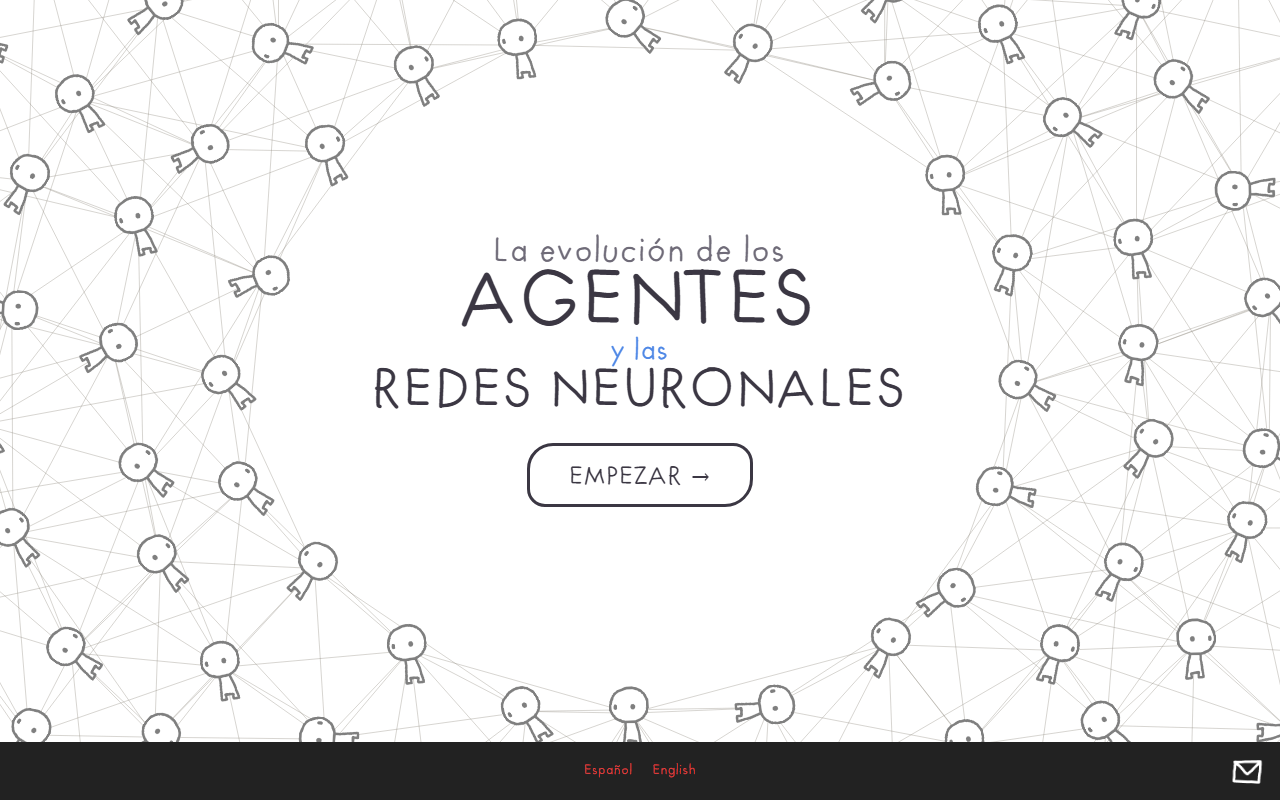
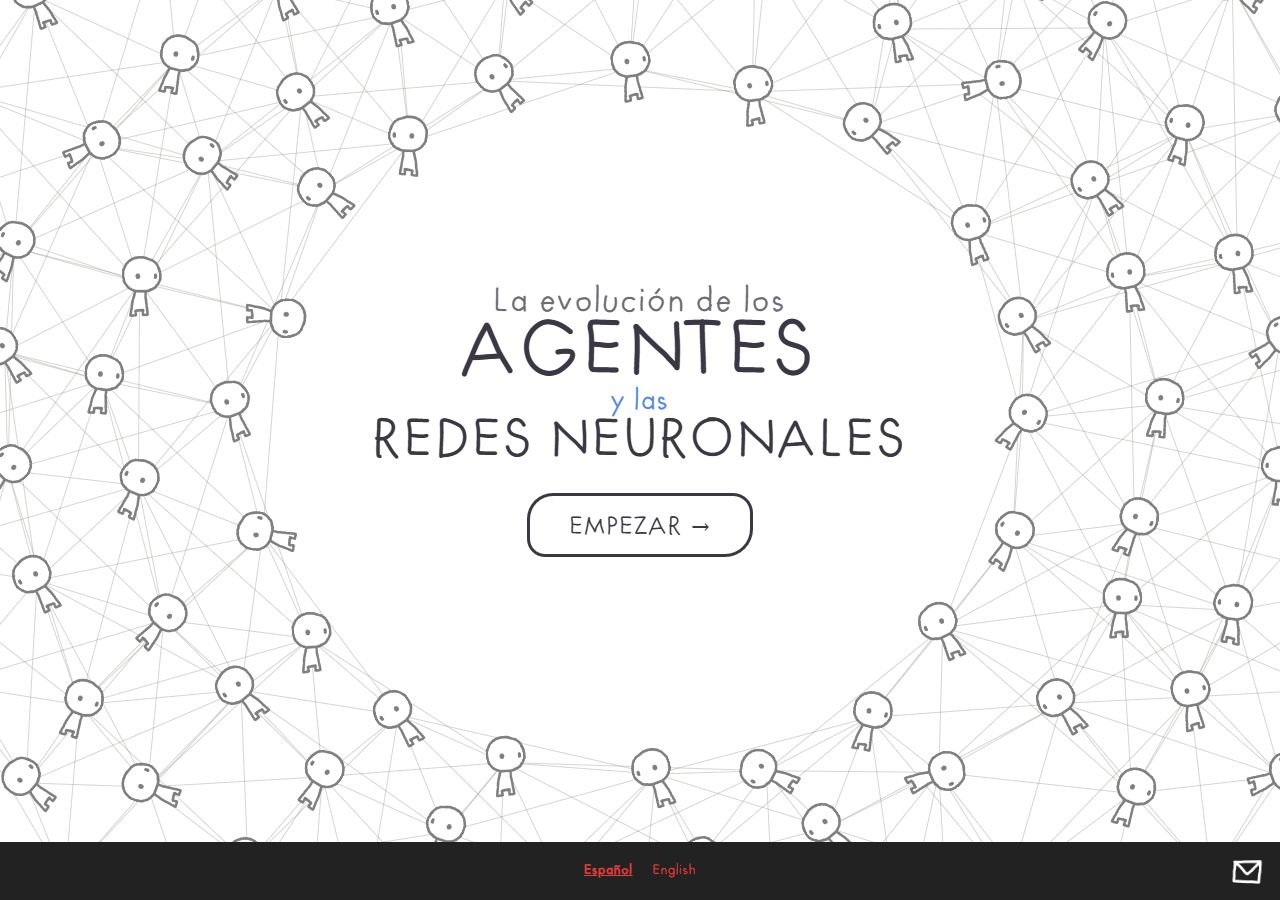
Mejora diseño móvil y actualiza capturas bilingües

diff --git a/index.html b/index.html
@@ -2,13 +2,13 @@
 <html lang="es">
   <head>
     <meta charset="UTF-8" />
-    <meta name="viewport" content="width=device-width, initial-scale=1.0" />
+    <meta name="viewport" content="width=device-width, initial-scale=1.0, viewport-fit=cover" />
     <meta
       name="description"
       content="La evolución de los agentes y las redes neuronales: una exploración con herramientas de Análisis Matemático 2."
     />
     <title>La evolución de los agentes y las redes neuronales</title>
-    <link rel="stylesheet" href="styles.css" />
+    <link rel="stylesheet" href="styles.css?v=20260917-2" />
     <script>
       window.MathJax = {
         tex: {
@@ -79,7 +79,7 @@
           <div class="intro-text">
 <p class="prose" data-i18n="intro_p00">Algo que puede ser útil para mejorar nuestro <span class="concept concept--red">discernimiento al utilizar herramientas de IA</span> es comprender cómo funciona la estadística que tienen por detrás.</p>
 
-<p class="prose" data-i18n="intro_p01">De esta manera podremos reconocer <span class="concept concept--context">cuándo una respuesta puede ser confiable</span>, cuándo conviene verificarla y cuáles son los límites de la herramienta.</p>
+<p class="prose" data-i18n="intro_p01">De esta manera podremos entender por qué debemos <span class="concept concept--context">mantener el escepticismo</span> frente a una respuesta y cómo podría hacerse que una IA entrenada por nosotros tenga menor margen de error.</p>
 
           <!-- VIDEO 1: AwesomeClip.mp4 (loop, sin audio, autoplay) -->
           <figure class="video-card">
@@ -825,6 +825,7 @@ Un bloque Transformer recibe los embeddings de los tokens y los transforma en nu
             equivale a una compuerta lógica AND. Eligiendo $w_1 = 2$, $w_2 = 2$ y
             $b = -3$:
           </p>
+          <div class="table-wrap" tabindex="0" role="region" aria-label="Tabla de verdad" data-i18n-aria-label="truthTableLabel">
           <table class="truth-table">
             <thead>
               <tr><th data-i18n="t107">$x_1$ (cómputo)</th><th data-i18n="t108">$x_2$ (razonamiento)</th><th data-i18n="t109">Éxito real $y$</th><th data-i18n="t110">Suma $z$</th><th data-i18n="t111">Salida</th></tr>
@@ -836,6 +837,7 @@ Un bloque Transformer recibe los embeddings de los tokens y los transforma en nu
               <tr><td>1</td><td>1</td><td class="ok">1</td><td>$2(1)+2(1)-3=+1$</td><td class="ok">1</td></tr>
             </tbody>
           </table>
+          </div>
           <p data-i18n="t112">
             La neurona solo arroja un valor positivo, y por ende salida $1$, cuando
             ambas entradas están activadas. Si visualizamos la tabla en una gráfica,
@@ -974,6 +976,7 @@ Un bloque Transformer recibe los embeddings de los tokens y los transforma en nu
             <li data-i18n="t131"><span class="sym">$x_1$</span> (naturaleza de la tarea): $1$ si es paralelizable, $0$ si es secuencial.</li>
             <li data-i18n="t132"><span class="sym">$x_2$</span> (infraestructura): $1$ si es multi-agente, $0$ si es un agente solo.</li>
           </ul>
+          <div class="table-wrap" tabindex="0" role="region" aria-label="Tabla de verdad" data-i18n-aria-label="truthTableLabel">
           <table class="truth-table">
             <thead>
               <tr><th>$x_1$</th><th>$x_2$</th><th data-i18n="t133">Éxito $y$</th><th data-i18n="t134">Escenario real</th></tr>
@@ -985,6 +988,7 @@ Un bloque Transformer recibe los embeddings de los tokens y los transforma en nu
               <tr><td>1</td><td>1</td><td class="ok">1</td><td data-i18n="t138">Paralelizable + multi-agente: coordinación perfecta.</td></tr>
             </tbody>
           </table>
+          </div>
 
           <figure class="gate-card" style="max-width: 320px; margin: 18px auto;">
             <h4 data-i18n="t139">Compuerta XOR</h4>
@@ -1141,15 +1145,16 @@ Un bloque Transformer recibe los embeddings de los tokens y los transforma en nu
                 playsinline
                 preload="auto"
               >
-                <source src="videos/sigmoide3d.mp4" type="video/mp4" />
+                <source src="videos/sigmoide3d.mp4?v=20260917-trimmed" type="video/mp4" />
               </video>
               <div class="video-card__missing" style="display: none;">
                 <span data-i18n="t015">Falta el video</span>
                 <code>videos/sigmoide3d.mp4</code>
               </div>
             </div>
-            <figcaption data-i18n="t163" class="video-card__caption">
-              La superficie sigmoide sobre el plano (x₁, x₂) y cómo curva la frontera de decisión.
+            <figcaption class="video-card__caption video-card__caption--credited">
+              <span data-i18n="t163">La superficie sigmoide sobre el plano (x₁, x₂) y cómo curva la frontera de decisión.</span>
+              <span data-i18n="sigmoidVideoCredit" class="video-card__credit">Créditos: Dot CSV — <strong>¿Qué es una Red Neuronal? Parte 2 : La Red</strong>.</span>
             </figcaption>
           </figure>
 
@@ -1394,7 +1399,7 @@ Un bloque Transformer recibe los embeddings de los tokens y los transforma en nu
           <p data-i18n="t205">
             Los hallazgos que motivaron cada página, con su paper y su fuente:
           </p>
-          <div class="table-wrap">
+          <div class="table-wrap" tabindex="0" role="region" aria-label="Referencias" data-i18n-aria-label="referencesTableLabel">
             <table class="truth-table papers-table">
               <thead>
                 <tr><th data-i18n="t206">Hallazgo</th><th data-i18n="t207">Paper</th><th data-i18n="t208">Fuente</th></tr>
@@ -1416,8 +1421,8 @@ Un bloque Transformer recibe los embeddings de los tokens y los transforma en nu
       </div>
     </section>
 
-    <script src="i18n.js"></script>
+    <script src="i18n.js?v=20260917-2"></script>
     <script src="papers.js"></script>
-    <script src="app.js"></script>
+    <script src="app.js?v=20260917"></script>
   </body>
 </html>

diff --git a/styles.css b/styles.css
@@ -382,6 +382,17 @@ button {
   text-align: center;
   margin-top: 8px;
 }
+.video-card__caption--credited {
+  margin: 0;
+  padding: 12px 16px;
+  background: var(--paper);
+  color: var(--ink-soft);
+}
+.video-card__credit {
+  display: block;
+  margin-top: 6px;
+  color: var(--ink);
+}
 
 /* ---------- Bloque resaltado / nota ---------- */
 
@@ -924,3 +935,81 @@ button {
 .intro-card--learn { border-color: #d58e47; background: #fff6ec; }
 .token-sequence { gap: 12px; }
 .token-sequence span { border: 1px solid #2860bf; border-bottom-width: 3px; }
+
+/* Responsive reading and touch interaction: never hide page-level overflow. */
+html { -webkit-text-size-adjust: 100%; text-size-adjust: 100%; }
+.page, .page__body, .page__nav, .doc-nav, .tool, .gate-card,
+.fig-row, .diagram, .intro-text, .intro-card, .token-example { min-width: 0; }
+.page__logo { min-width: 0; }
+.page__home, .lang-switch { flex-shrink: 0; }
+.page__bar { height: auto; min-height: 50px; gap: 10px; }
+.page__logo { line-height: 1.3; padding: 8px 0; }
+.doc-nav { width: 100%; }
+.table-wrap { max-width: 100%; scrollbar-width: thin; }
+.table-wrap .truth-table { margin: 12px 0; }
+.papers-table a, .doc p a { overflow-wrap: anywhere; }
+.eq, .math-block { min-width: 0; }
+.eq mjx-container[display="true"], .math-block mjx-container[display="true"] {
+  min-width: 100%;
+  width: max-content;
+}
+.splash { height: 100svh; min-height: 400px; }
+button, .splash__lang { touch-action: manipulation; }
+
+@media (max-width: 640px) {
+  .page, .page--doc { min-height: 100svh; }
+  .page__bar {
+    position: sticky;
+    top: 0;
+    display: grid;
+    grid-template-columns: minmax(0, 1fr) auto;
+    padding: 8px max(16px, env(safe-area-inset-right)) 8px max(16px, env(safe-area-inset-left));
+    gap: 4px 12px;
+  }
+  .page__logo { grid-column: 1 / -1; font-size: 0.95rem; padding: 0; }
+  .lang-switch { margin: 0; gap: 8px; justify-self: start; }
+  .lang-switch__btn { min-width: 44px; min-height: 44px; font-size: 0.85rem; }
+  .page__home { min-height: 44px; justify-self: end; white-space: nowrap; }
+  .page__body, .page--doc .page__body { padding: 24px 16px 30px; }
+  .intro-text .prose, .doc p { font-size: 1rem; line-height: 1.65; }
+  .doc-title { font-size: clamp(1.6rem, 6vw, 2rem); }
+  .intro-card, .token-example { padding: 14px; margin: 18px 0; }
+  .token-sequence { gap: 8px; margin: 16px 0; }
+  .token-sequence span { padding: 6px 8px; font-size: 0.85rem; }
+  .callout, .cite, .defs { padding: 12px 14px; }
+  .gate-grid { grid-template-columns: minmax(0, 1fr); }
+  .gate-card, .diagram { padding: 12px 10px; }
+  .fig-row { padding: 12px 8px; }
+  #scatter-cap1 text { font-size: 14px; }
+  .tool { padding: 14px 12px; }
+  .tool__controls { grid-template-columns: minmax(0, 1fr); gap: 12px; }
+  .tool__row input[type="range"] { min-height: 44px; margin: 0; }
+  .tool__foot .btn { width: 100%; }
+  .btn { min-height: 44px; }
+  .pager { padding: 8px 16px 18px; gap: 8px; }
+  .pager__btn { min-width: 44px; height: 44px; }
+  .page__nav, .doc-nav { padding: 8px 16px calc(24px + env(safe-area-inset-bottom)); gap: 10px; }
+  .splash__center { gap: 20px; padding: 20px 16px; }
+  .splash__title-md { font-size: clamp(1.35rem, 6vw, 2rem); }
+  .splash__play { min-height: 48px; padding: 12px 28px; }
+  .splash__footer {
+    height: auto;
+    min-height: 58px;
+    padding: 6px 60px calc(6px + env(safe-area-inset-bottom));
+  }
+  .splash__langs { gap: 4px; font-size: 14px; }
+  .splash__lang { display: inline-flex; align-items: center; min-height: 44px; padding: 4px 8px; }
+  .splash__email { width: 44px; height: 44px; right: max(12px, env(safe-area-inset-right)); }
+}
+
+@media (max-width: 480px) {
+  .page__nav, .doc-nav { flex-direction: column; }
+  .page__nav .btn, .doc-nav .btn { width: 100%; text-align: center; }
+}
+
+@media (max-height: 480px) and (max-width: 900px) {
+  .splash__center { gap: 14px; }
+  .splash__title-lg { font-size: 2rem; }
+  .splash__title-md { font-size: 1.4rem; }
+  .splash__title-sm { font-size: 1rem; }
+}

diff --git a/i18n.js b/i18n.js
@@ -23,7 +23,7 @@
   var EN = {
     /* Expanded introduction: preserve colors, panels and mathematical notation. */
     "intro_p00": "One useful way to improve our <span class=\"concept concept--red\">judgement when using AI tools</span> is to understand the statistics behind them.",
-    "intro_p01": "This helps us recognise <span class=\"concept concept--context\">when a response may be reliable</span>, when it should be checked, and what limitations the tool has.",
+    "intro_p01": "This way, we can understand why we should <span class=\"concept concept--context\">remain sceptical</span> of a response and how an AI trained by us could be made to have a smaller margin of error.",
     "intro_p02": "A <em>Large Language Model</em> (LLM) is a mathematical model that generates a text response through a <span class=\"concept concept--learn\">probability function</span>—which varies from one model to another—based on a text prompt. This function depends on millions of parameters adjusted during training. As an analogy, we can compare them with the millions of synaptic connections in our brains. We will now see why this comparison is useful.",
     "intro_p03": "An LLM calculates probabilities for the <span class=\"concept concept--text\">next token</span> it will write. Once that token has been selected and appended to the response, all the preceding text is sent back through the same function to calculate the next one.",
     "intro_p04": "<span class=\"concept concept--text\">Tokens</span> are <span class=\"concept concept--text\">character fragments</span> with an associated <span class=\"concept concept--text\">numerical ID</span>.",
@@ -260,6 +260,7 @@
     t160: 'The sigmoid in three dimensions',
     t161: 'To close, let us look at the sigmoid in three dimensions. Applied to the weighted sum $z = w_1 x_1 + w_2 x_2 + b$, it turns the tilted plane into a smooth surface shaped like a curved step: on one side it saturates near $0$ and on the other near $1$, with a continuous transition in between. That curvature is exactly what lets us separate the gates: instead of a straight, abrupt cut like the threshold’s, we get a <em>smooth, deformable boundary</em> which, chained across layers, can wrap around the crossed XOR points.',
     t163: 'The sigmoid surface over the (x₁, x₂) plane and how it curves the decision boundary.',
+    sigmoidVideoCredit: 'Credits: Dot CSV — <strong>¿Qué es una Red Neuronal? Parte 2 : La Red</strong>.',
     t164: 'With this the architecture is complete: neurons that compute weighted sums, organised in layers, with non-linear activations in between. But so far <em>we</em> have chosen the weights by hand, by looking at the picture. The real magic of machine learning is that the network finds them on its own. How? That is the subject of the next page.',
     t165: 'Page 9 of 11',
     t166: '&larr; The XOR paradox',
@@ -316,6 +317,8 @@
     docTitle: 'The evolution of agents and neural networks',
     docDesc: 'The evolution of agents and neural networks: an exploration using the tools of Calculus II.',
     chartXLabel: 'training compute',
+    truthTableLabel: 'Truth table: scroll horizontally to view all columns',
+    referencesTableLabel: 'References: scroll horizontally to view all columns',
     chartError: 'Error (MSE) = ',
     layerPrev: 'LAYER N−1',
     layerCurr: 'LAYER N',

diff --git a/app.js b/app.js
@@ -312,7 +312,38 @@
         draw();
       });
     }
+    // Draw at the available CSS width instead of shrinking a desktop bitmap.
+    // Hidden chapters are resized when they become visible.
+    function resizeCanvas() {
+      var width = canvas.parentElement.clientWidth;
+      if (!width) return;
+      CW = width;
+      CH = Math.max(270, Math.round(CW * 380 / 640));
+      var ratio = Math.min(window.devicePixelRatio || 1, 2);
+      canvas.width = Math.round(CW * ratio);
+      canvas.height = Math.round(CH * ratio);
+      ctx.setTransform(ratio, 0, 0, ratio, 0, 0);
+      ml = CW < 400 ? 44 : 56;
+      mr = CW < 400 ? 16 : 24;
+      x0 = ml;
+      x1 = CW - mr;
+      y0 = CH - mb;
+      draw();
+    }
     draw();
+    if (window.ResizeObserver) {
+      new ResizeObserver(resizeCanvas).observe(canvas.parentElement);
+    } else {
+      window.addEventListener('resize', resizeCanvas);
+      // Navigation can reveal a previously hidden chapter without a resize.
+      document.addEventListener('click', function (e) {
+        if (e.target.closest('[data-goto]')) resizeCanvas();
+      });
+    }
+    resizeCanvas();
+    if (document.fonts && document.fonts.ready) {
+      document.fonts.ready.then(resizeCanvas);
+    }
   }
 
   /* ---------- Compuertas: recorte de semiplano (Sutherland-Hodgman) ---------- */
@@ -825,5 +856,14 @@
     mouse.x = -99999;
     mouse.y = -99999;
   });
-  window.addEventListener('resize', build);
+  if (window.ResizeObserver) {
+    new ResizeObserver(function () {
+      if (canvas.clientWidth && canvas.clientHeight) build();
+    }).observe(canvas);
+  } else {
+    window.addEventListener('resize', build);
+    document.addEventListener('click', function (ev) {
+      if (ev.target.closest('[data-goto="splash"]')) build();
+    });
+  }
 })();

diff --git a/README.md b/README.md
@@ -6,7 +6,7 @@ A **Probability & Statistics** project: an interactive web page that explains wh
 
 *🇦🇷 [Leer este README en español](README.es.md) · the site itself is bilingual (EN / ES switch in the top bar).*
 
-![Site cover](assets/readme/portada.png)
+![Site cover](assets/readme/portada-en.png)
 
 ---
 
@@ -18,19 +18,22 @@ We wanted to show that journey without black boxes. Every formula on the site ca
 
 ## How we approached it
 
-- **An expanded introduction.** A learning analogy leads into language models, token IDs, embeddings, Transformer blocks and learned parameters. The introduction uses LaTeX formulas, colored text panels and a visual token-to-vector example.
+- **An expanded introduction.** Statistics and critical judgement lead into language models, token IDs, embeddings, Transformer blocks and learned parameters. The introduction uses LaTeX formulas, colored text panels and a visual token-to-vector example.
 - **A story in 11 pages, from simple to complex.** The site reads like a notebook: the introduction and an LLM's probability function (pages 1 and 2) → a line fitted to real data (page 3) → the error as a function to minimise (page 4) → more dimensions and least squares (page 5) → the perceptron (page 6) → AND/OR gates (page 7) → the XOR limit (page 8) → layers and activation functions (page 9) → backpropagation and gradient descent (page 10) → conclusion and references (page 11).
 - **Real papers as the through-line.** Each mathematical concept enters when a real finding demands it: linear regression shows up to model OpenAI's Scaling Laws, and XOR shows up because the DeepMind + MIT multi-agent finding (multi-agents help on parallelisable tasks and hurt on sequential ones) has exactly that shape.
 - **Interactive where it adds value, static where it does not.** Page 4 has a tool to drag the slope and bias of the line and watch the mean squared error change live. The rest are SVG charts drawn in code, with no libraries.
 - **Language selection.** The introduction, navigation and nine chapters support English and Spanish, with English selected by default. Color highlights, text panels and LaTeX formulas are preserved when switching languages. Spanish example tokens are retained to keep their IDs and vectors consistent. The language choice is remembered across visits.
 - **Handmade aesthetic.** Handwritten typography, paper colours and an animated cover (a homage to Nicky Case's *The Evolution of Trust*): it should feel like a notebook, not a corporate deck.
 - **No dependencies, no build step.** Vanilla HTML + CSS + JS; only MathJax from a CDN for the formulas. Deploying means copying static files.
+- **Mobile-friendly reading.** The header adapts to narrow screens, navigation and sliders have larger touch targets, the regression chart is redrawn at the available width, and wide tables and equations scroll within their own panels.
 
 ## The walkthrough, in screenshots
 
-**Introduction — learning and language models.** The opening analogy and video introduce the model, with color highlights for key concepts.
+All screenshots in this README use English. The [Spanish README](README.es.md) has its own Spanish screenshots; the example tokens intentionally remain in Spanish in both versions.
 
-![Introduction: learning analogy and video](assets/readme/introduccion-en.png)
+**Introduction — statistics and language models.** The opening text and video introduce the model and the importance of remaining sceptical, with color highlights for key concepts.
+
+![Introduction: statistics, critical judgement and video](assets/readme/introduccion-en.png)
 
 **Introduction — from tokens to the input vector.** Separate token boxes correspond to the IDs in the LaTeX vector, inside a dedicated text panel.
 
@@ -38,19 +41,23 @@ We wanted to show that journey without black boxes. Every formula on the site ca
 
 **Page 3 — the real data and the first line.** The test loss of OpenAI's models falls with compute following a power law; on a log-log scale it is almost a straight line, and that line is our first model:
 
-![Page 3: scaling laws](assets/readme/scaling-laws.png)
+![Page 3: scaling laws](assets/readme/scaling-laws-en.png)
 
 **Page 4 — the error as a function.** The interactive tool: you move the slope and the bias, and the mean squared error tells you how good your line is:
 
-![Page 4: regression tool](assets/readme/herramienta-mse.png)
+![Page 4: regression tool](assets/readme/herramienta-mse-en.png)
 
 **Page 8 — the limit.** The multi-agent finding has the shape of an XOR and no straight line can separate that pattern: the geometric reason why networks are needed:
 
-![Page 8: the XOR paradox](assets/readme/xor.png)
+![Page 8: the XOR paradox](assets/readme/xor-en.png)
 
 **Page 11 — the conclusion.** A recap of everything used, stage by stage, plus the references:
 
-![Page 11: conclusion](assets/readme/conclusion.png)
+![Page 11: conclusion](assets/readme/conclusion-en.png)
+
+**Mobile — interactive regression.** The chart keeps readable labels and the controls stack vertically on a phone:
+
+![Mobile layout: regression chart and touch controls](assets/readme/mobile-en.png)
 
 ## Running it locally
 

diff --git a/README.es.md b/README.es.md
@@ -18,19 +18,22 @@ Queríamos mostrar ese recorrido sin cajas negras. Cada fórmula que aparece en 
 
 ## Cómo lo pensamos
 
-- **Una introducción ampliada.** Una analogía sobre el aprendizaje presenta los modelos de lenguaje, los IDs de tokens, los embeddings, los bloques Transformer y los parámetros aprendidos. Incluye fórmulas en LaTeX, recuadros, resaltados por color y un ejemplo visual de tokens y su vector de entrada.
+- **Una introducción ampliada.** La estadística y el discernimiento al usar IA presentan los modelos de lenguaje, los IDs de tokens, los embeddings, los bloques Transformer y los parámetros aprendidos. Incluye fórmulas en LaTeX, recuadros, resaltados por color y un ejemplo visual de tokens y su vector de entrada.
 - **Una historia en 11 páginas, de lo simple a lo complejo.** El sitio se lee como un cuadernillo: la introducción y la función de probabilidad de un LLM (páginas 1 y 2) → una recta sobre datos reales (página 3) → el error como función a minimizar (página 4) → más dimensiones y mínimos cuadrados (página 5) → el perceptrón (página 6) → compuertas AND/OR (página 7) → el límite del XOR (página 8) → capas y funciones de activación (página 9) → backpropagation y descenso del gradiente (página 10) → conclusión y referencias (página 11).
 - **Papers reales como hilo conductor.** Cada concepto matemático entra cuando un hallazgo real lo pide: la regresión lineal aparece para modelar las Scaling Laws de OpenAI, y el XOR aparece porque el hallazgo multi-agente de DeepMind + MIT (los multi-agentes ayudan en tareas paralelizables y perjudican en secuenciales) tiene exactamente esa forma.
 - **Interactivo donde suma, estático donde no.** La página 4 tiene una herramienta para mover la pendiente y el sesgo de la recta y ver el error cuadrático medio cambiar en vivo. El resto son gráficos SVG dibujados por código, sin librerías.
 - **Estética hecha a mano.** Tipografía manuscrita, colores de papel y una portada animada (homenaje a *The Evolution of Trust* de Nicky Case): la idea es que se sienta como un cuaderno de apuntes y no como una presentación corporativa.
 - **Selección de idioma.** La introducción, la navegación y los nueve capítulos están disponibles en inglés y español; el inglés es el idioma predeterminado. El cambio de idioma conserva los colores, los recuadros y las fórmulas LaTeX. Los tokens de ejemplo permanecen en español para conservar la correspondencia con sus IDs y vectores. La elección se recuerda entre visitas.
 - **Sin dependencias ni build.** HTML + CSS + JS vanilla; solo MathJax por CDN para las fórmulas. Desplegar es copiar archivos estáticos.
+- **Lectura adaptada a celulares.** La barra superior se ajusta a pantallas estrechas, la navegación y los deslizadores tienen controles táctiles más grandes, el gráfico de regresión se redibuja al ancho disponible y las tablas y ecuaciones anchas se desplazan dentro de sus propios recuadros.
 
 ## El recorrido, en capturas
 
-**Introducción — aprendizaje y modelos de lenguaje.** La analogía inicial y el video presentan el modelo, con palabras clave resaltadas por color.
+Todas las capturas de este README están en español. El [README en inglés](README.md) utiliza sus propias capturas en inglés.
 
-![Introducción: analogía del aprendizaje y video](assets/readme/introduccion.png)
+**Introducción — estadística y modelos de lenguaje.** El texto inicial y el video presentan el modelo y la importancia de mantener el escepticismo, con palabras clave resaltadas por color.
+
+![Introducción: estadística, discernimiento y video](assets/readme/introduccion.png)
 
 **Introducción — de los tokens al vector de entrada.** Los fragmentos se muestran separados y se corresponden con los IDs de la fórmula en LaTeX, dentro de un recuadro.
 
@@ -51,6 +54,10 @@ Queríamos mostrar ese recorrido sin cajas negras. Cada fórmula que aparece en 
 **Página 11 — la conclusión.** El repaso de todo lo utilizado, etapa por etapa, y las referencias:
 
 ![Página 11: conclusión](assets/readme/conclusion.png)
+
+**Celulares — regresión interactiva.** El gráfico conserva etiquetas legibles y los controles se apilan verticalmente en el teléfono:
+
+![Vista móvil: gráfico de regresión y controles táctiles](assets/readme/mobile.png)
 
 ## Cómo correrlo local
 
